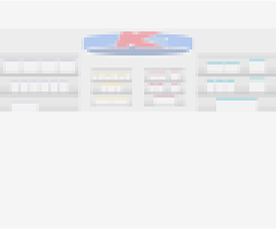
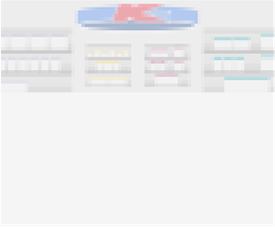
added imgs and removed sharebtn from displaying

diff --git a/game.js b/game.js
@@ -19,14 +19,14 @@ scrn.addEventListener("click", (e) => {
       bird.flap();
       break;
     case state.gameOver:
-        if (
-            clickX >= UI.shareBtn.x &&
-            clickX <= UI.shareBtn.x + UI.shareBtn.w &&
-            clickY >= UI.shareBtn.y &&
-            clickY <= UI.shareBtn.y + UI.shareBtn.h
-        ) {
-            share(); // Call capture function for sharing
-        } else {
+        // if (
+        //     clickX >= UI.shareBtn.x &&
+        //     clickX <= UI.shareBtn.x + UI.shareBtn.w &&
+        //     clickY >= UI.shareBtn.y &&
+        //     clickY <= UI.shareBtn.y + UI.shareBtn.h
+        // ) {
+        //     share(); // Call capture function for sharing
+        // } else {
           state.curr = state.getReady;
           bird.speed = 0;
           bird.y = 100;
@@ -34,7 +34,7 @@ scrn.addEventListener("click", (e) => {
           UI.score.curr = 0;
           SFX.played = false;
           break;
-        }
+      //  }
   }
 });
 
@@ -278,11 +278,11 @@ const UI = {
         let shareBtnW = this.shareButton.sprite.width - 50;
         let shareBtnH = this.shareButton.sprite.height;
 
-
-        // Store button area for click detection
-        sctx.drawImage(this.shareButton.sprite, shareBtnX, shareBtnY, shareBtnW, shareBtnH);
-
-        this.shareBtn = { x: shareBtnX, y: shareBtnY, w: shareBtnW, h: shareBtnH };
+        //
+        // // Store button area for click detection
+        // sctx.drawImage(this.shareButton.sprite, shareBtnX, shareBtnY, shareBtnW, shareBtnH);
+        //
+         this.shareBtn = { x: shareBtnX, y: shareBtnY, w: shareBtnW, h: shareBtnH };
         break;
     }
     this.drawScore();
@@ -373,5 +373,5 @@ function draw() {
 setInterval(gameLoop, 20);
 
 function share() {
-  alert("sharing")
+
 }
